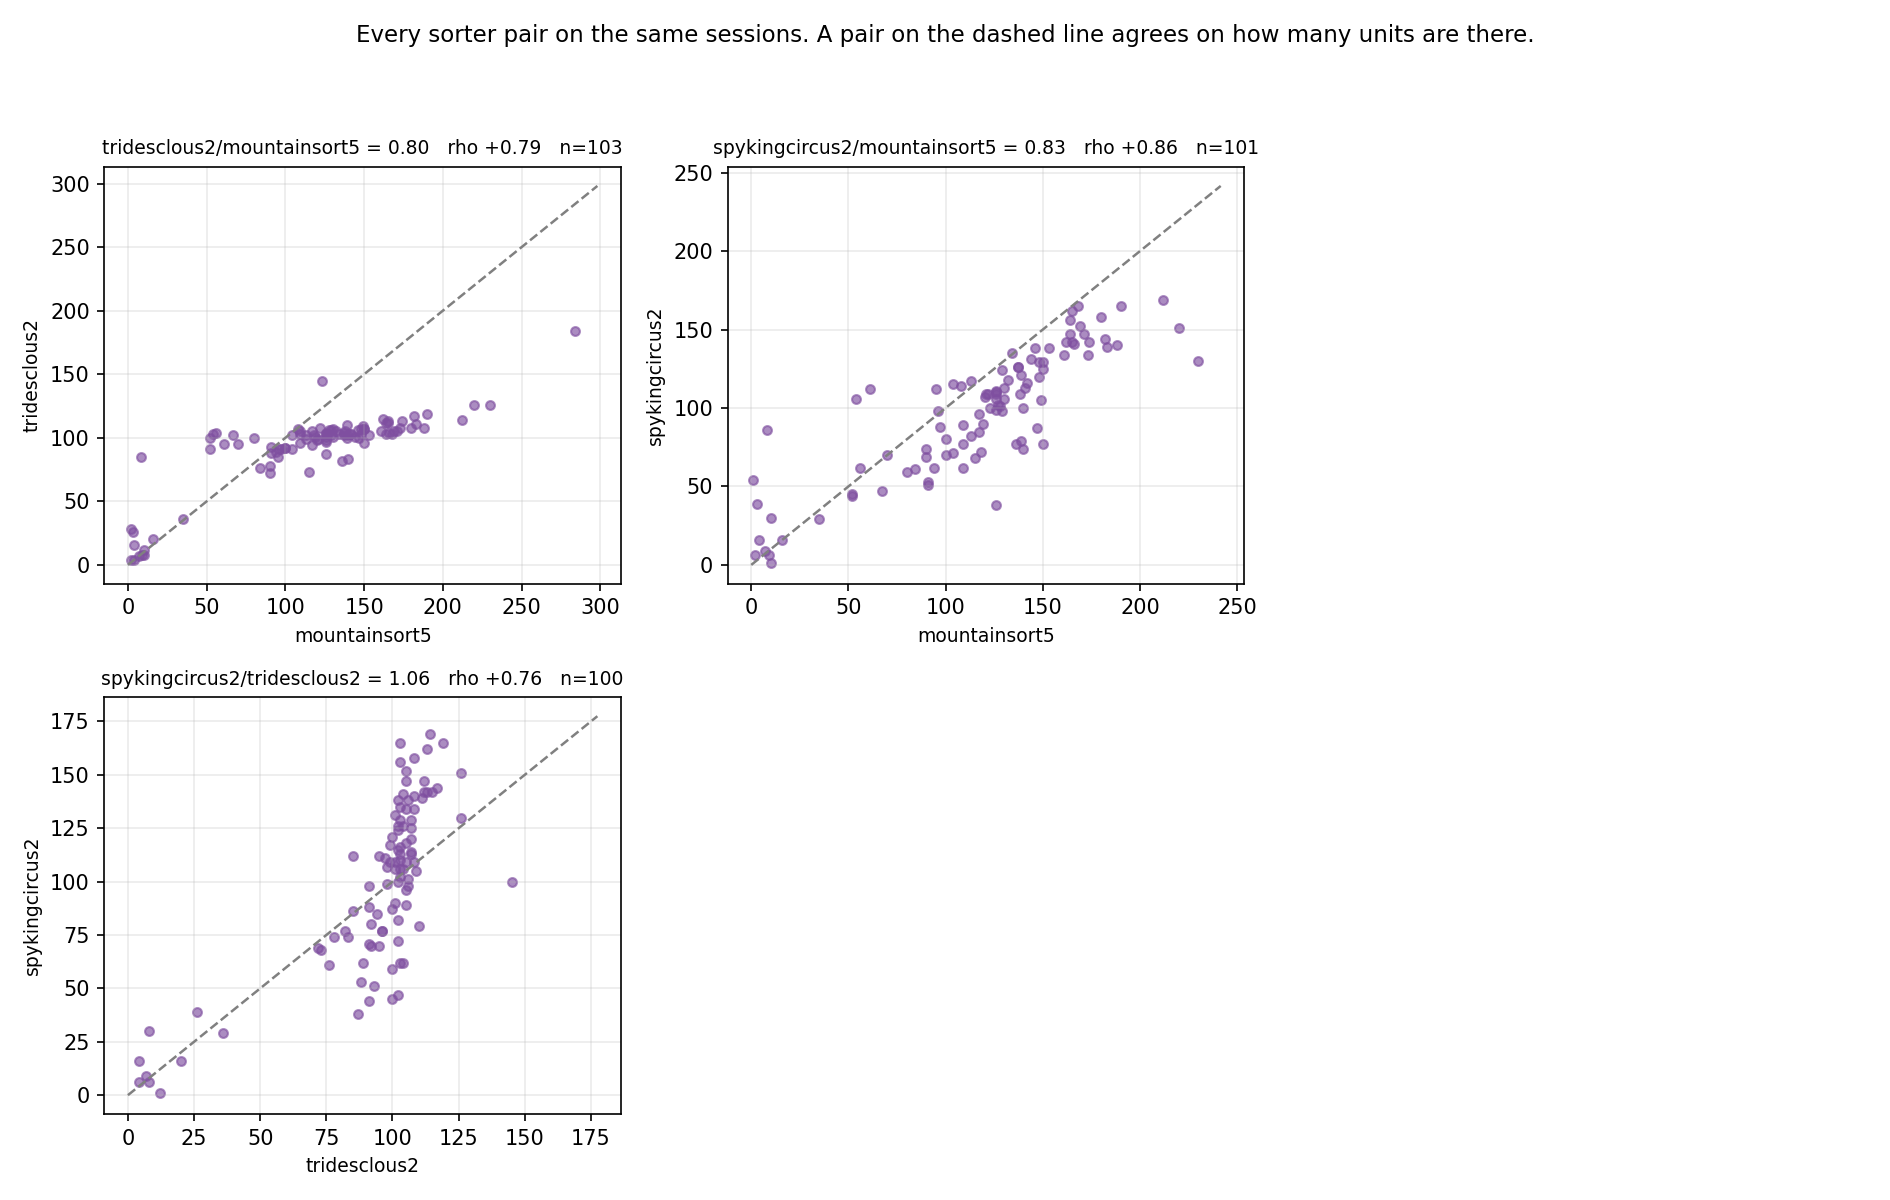
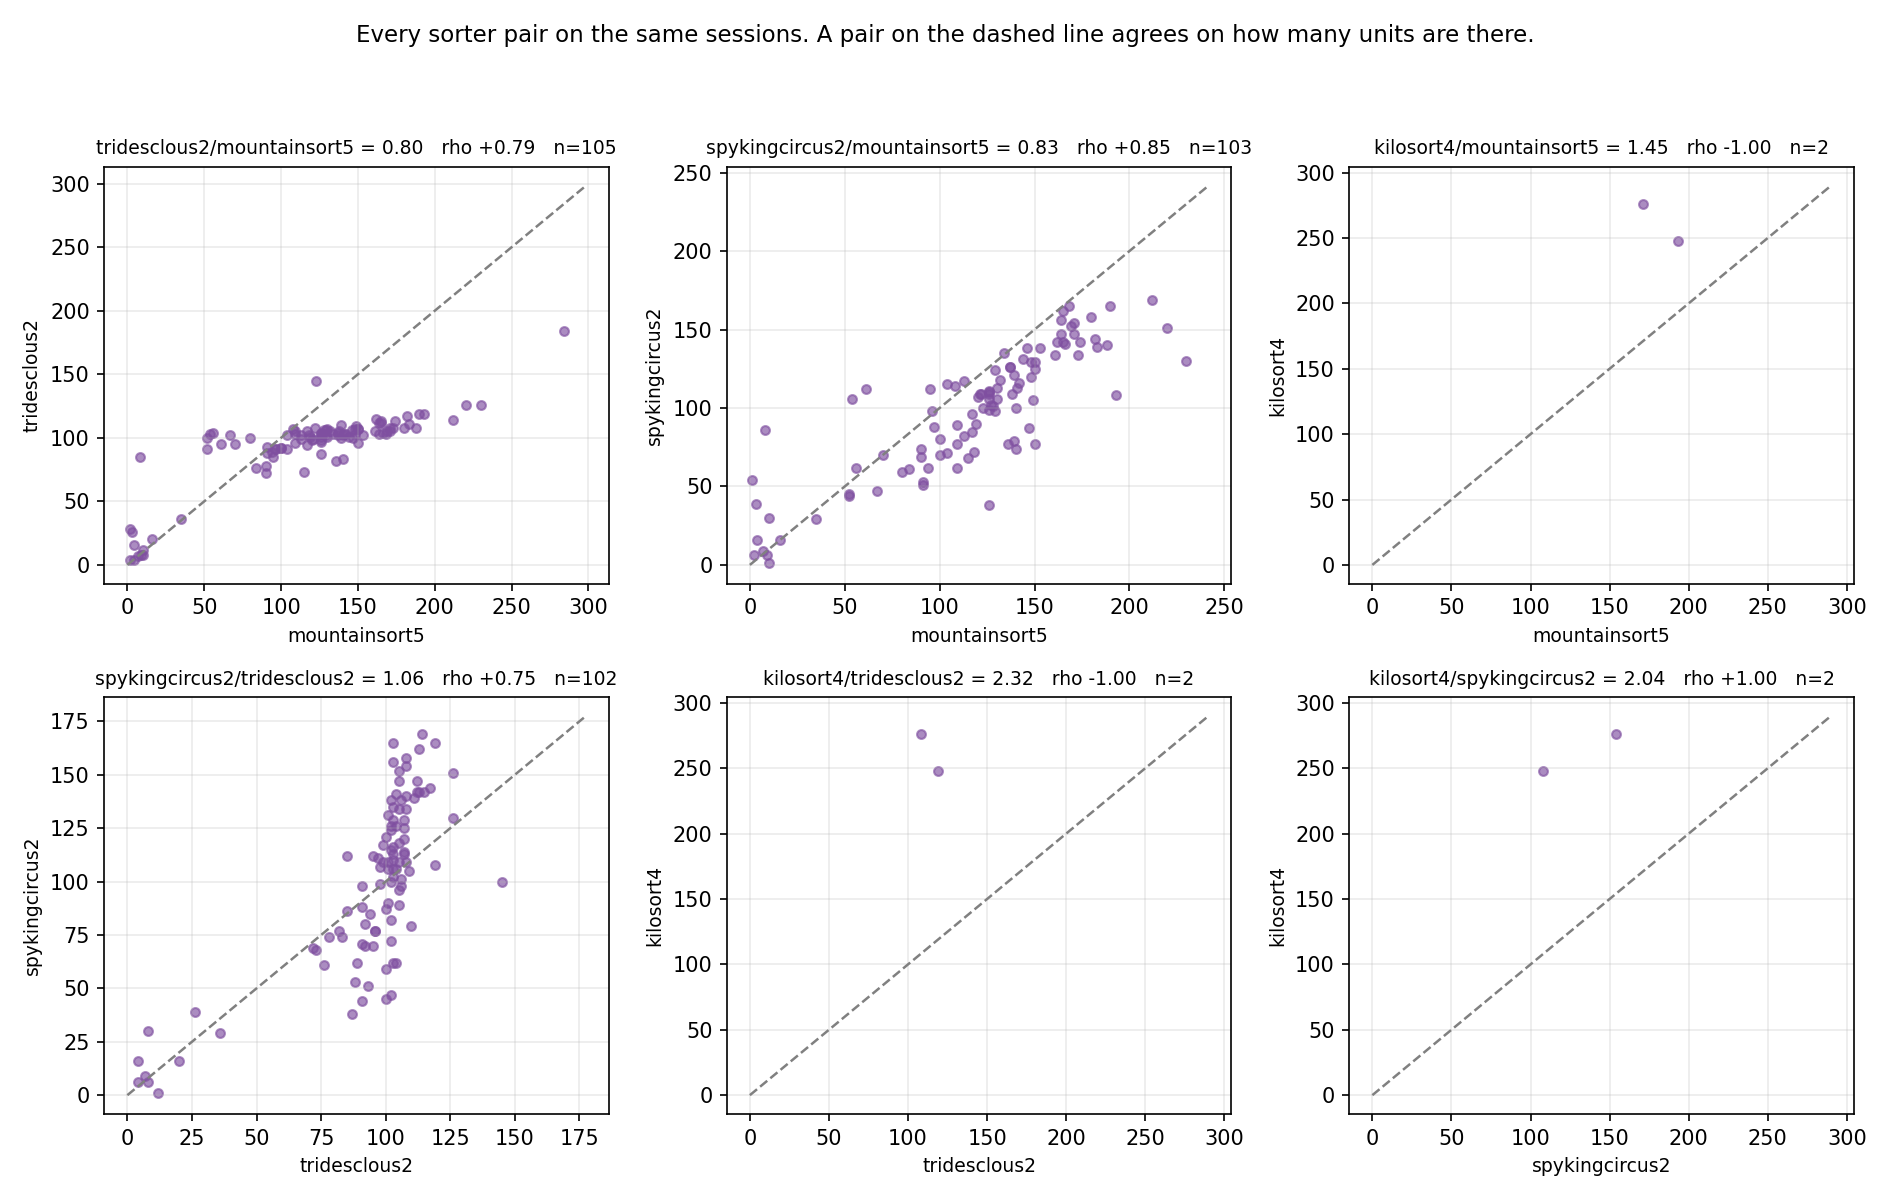
Repair the two damaged shards; roll the summary up from every shard
Both sessions now carry all four sorters, the first in the project to do so.
The merge fix works: the run reported "retrying [mountainsort5, spykingcircus2,
tridesclous2]" against a shard holding only kilosort4 and kept all four.

Kilosort4 248 and 276 units against MountainSort5 193/171, SpykingCircus2
108/154 and Tridesclous2 119/108 -- a four-sorter spread of 2.30x and 2.56x
where the three CPU sorters alone median 1.43x. KS4 roughly doubles the
disagreement, which is the over-splitting CLAUDE.md already records.

ns5_sorters.parquet was rebuilt from this run's frames rather than from the
shards, so any scoped run (--subject, --stems, --limit) silently replaced the
corpus summary with the few sessions it touched; it held 6 rows before this and
8 after the repair. It now rolls up every shard on disk -- 386 rows. The shards
were always the source of truth, which is why the figures read them directly
and were never wrong.

diff --git a/notebooks/scratch_ns5_resort.py b/notebooks/scratch_ns5_resort.py
@@ -849,8 +849,15 @@ def main() -> int:
     if not frames:
         print("\n  nothing ran")
         return 1
-    out = pd.concat(frames, ignore_index=True)
+    # Roll up from **every** shard on disk, not from this run's frames. A
+    # scoped run (`--subject`, `--stems`, `--limit`) otherwise rewrites the
+    # corpus summary with just the handful of sessions it touched -- the same
+    # overwrite mistake the shards themselves used to make. The shards are the
+    # source of truth; this file is a convenience view of them.
     OUT_DIR.mkdir(parents=True, exist_ok=True)
+    every = sorted(SHARD_DIR.glob("*.parquet"))
+    out = (pd.concat([pd.read_parquet(p) for p in every], ignore_index=True)
+           if every else pd.concat(frames, ignore_index=True))
     out.to_parquet(SUMMARY_OUT, engine="pyarrow", index=False)
 
     ok = out[out.error.isna()]
